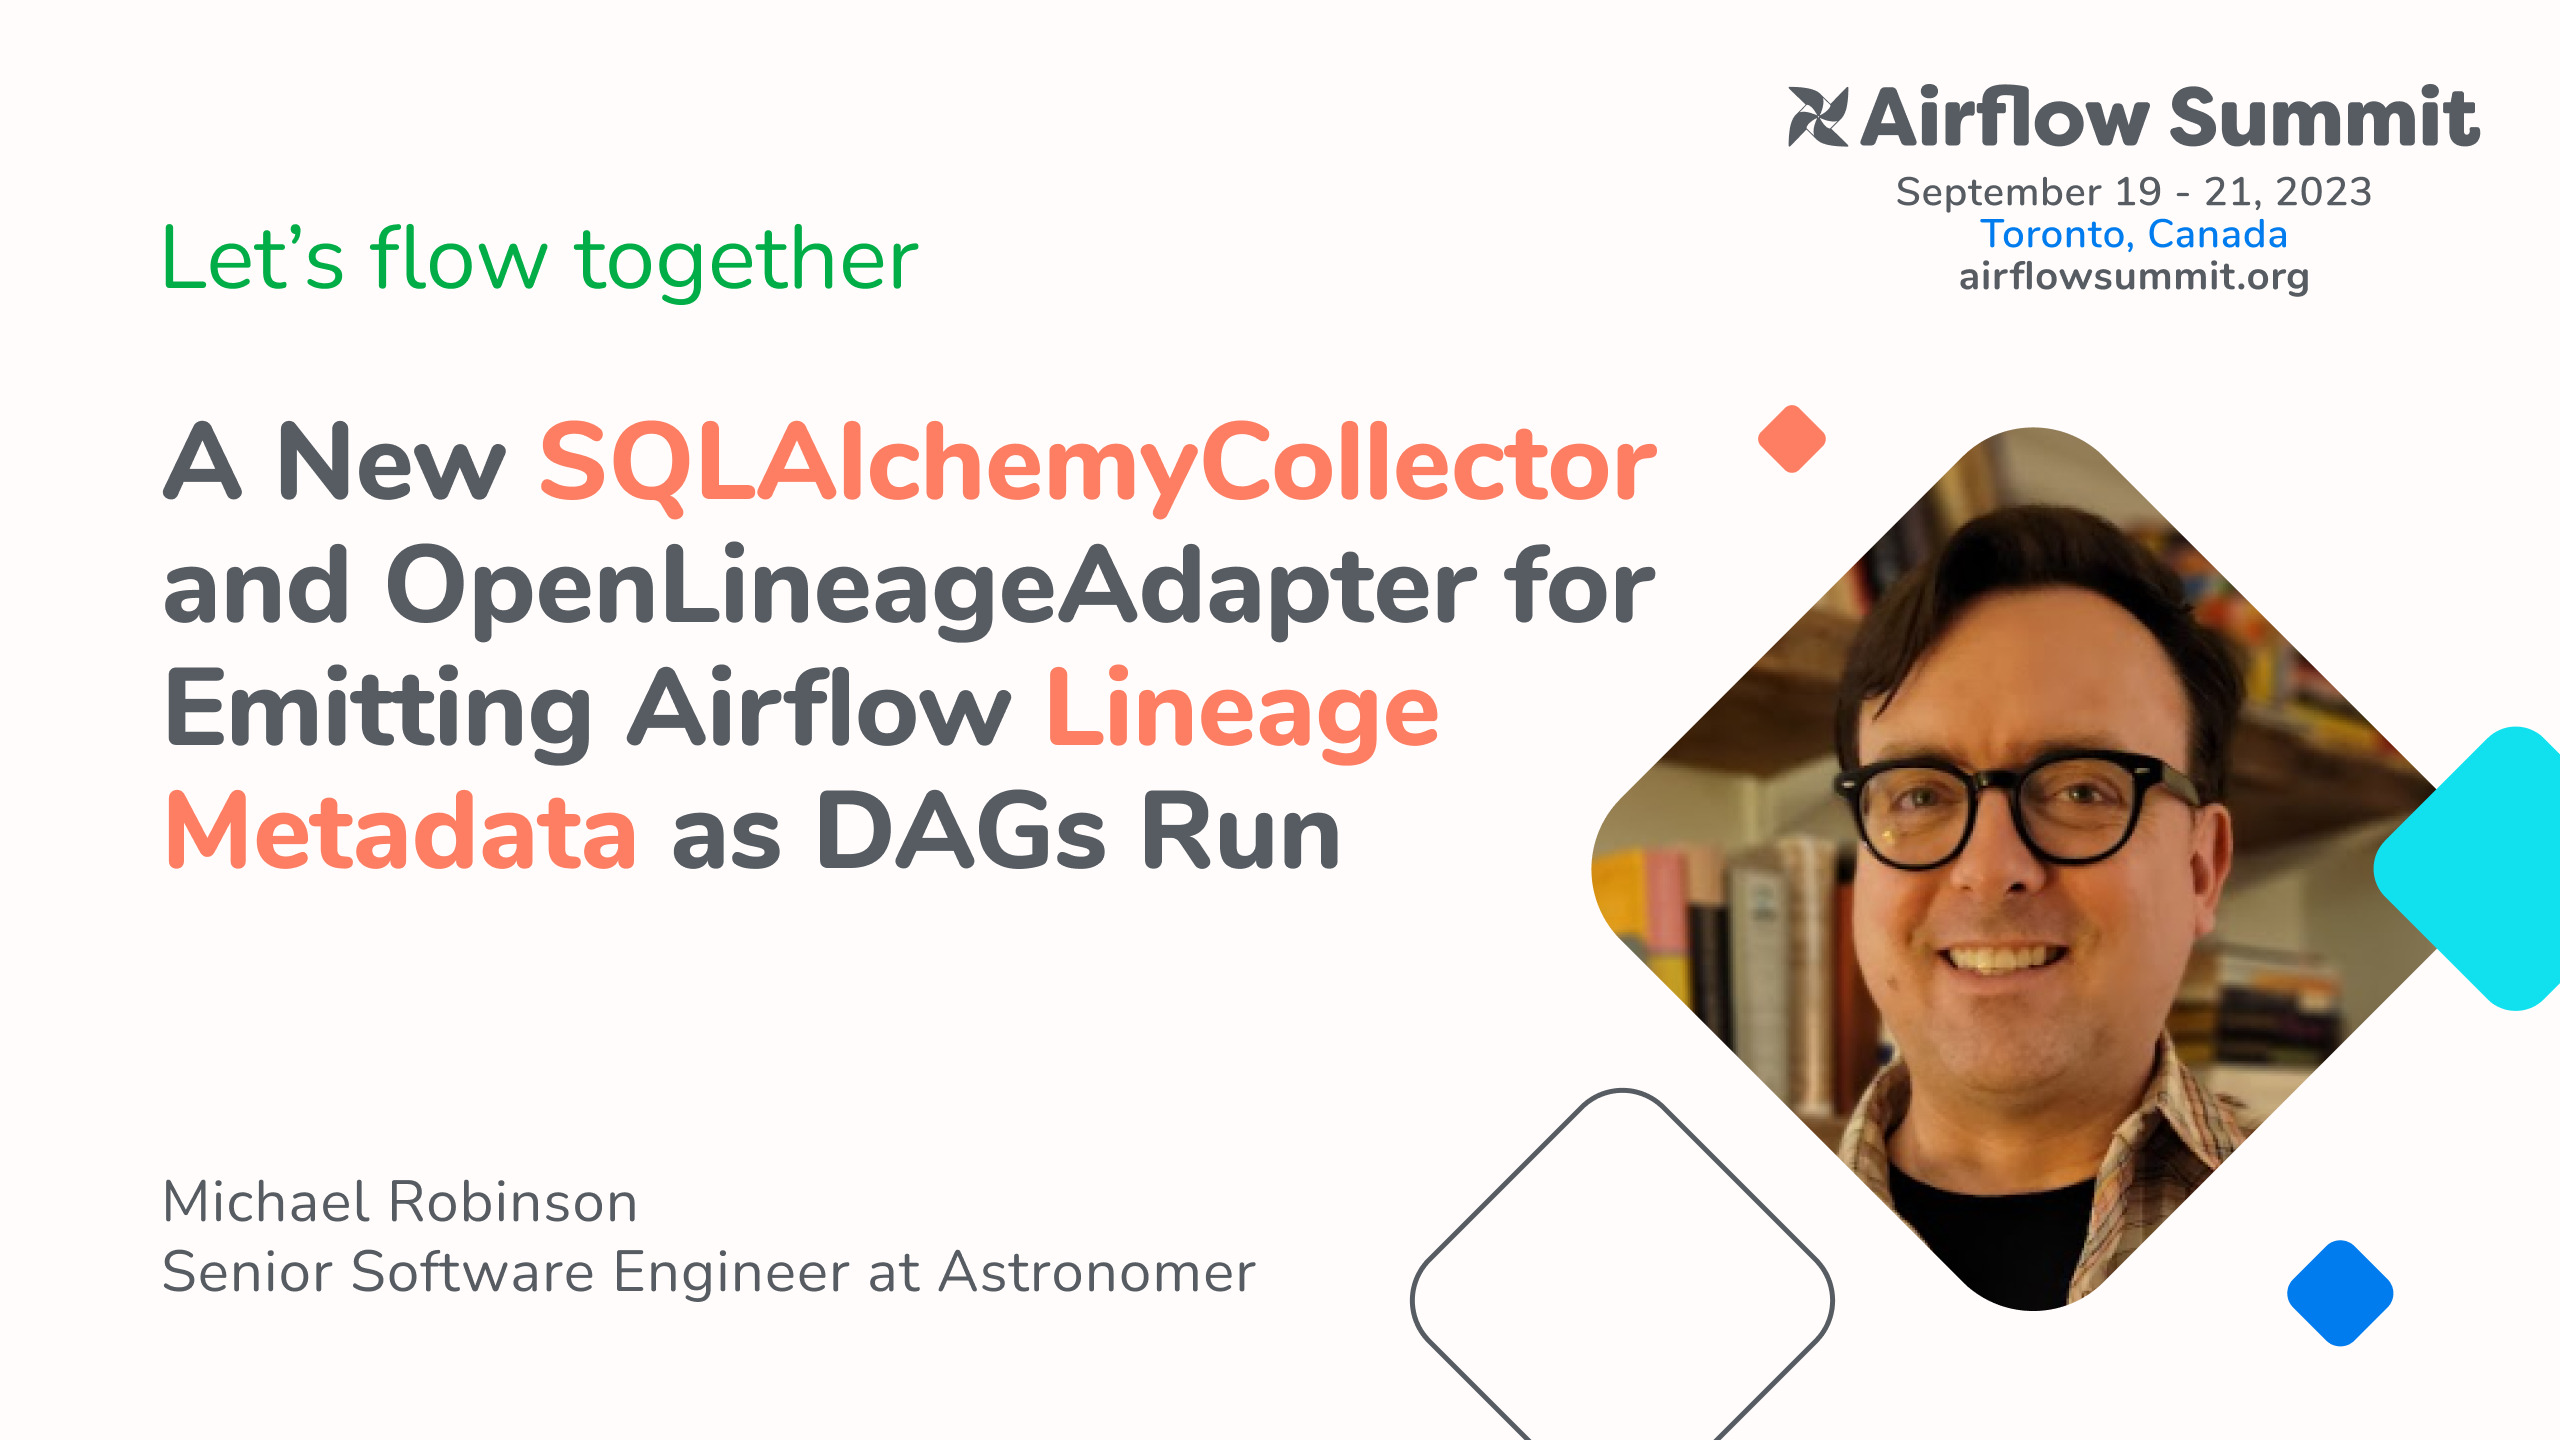
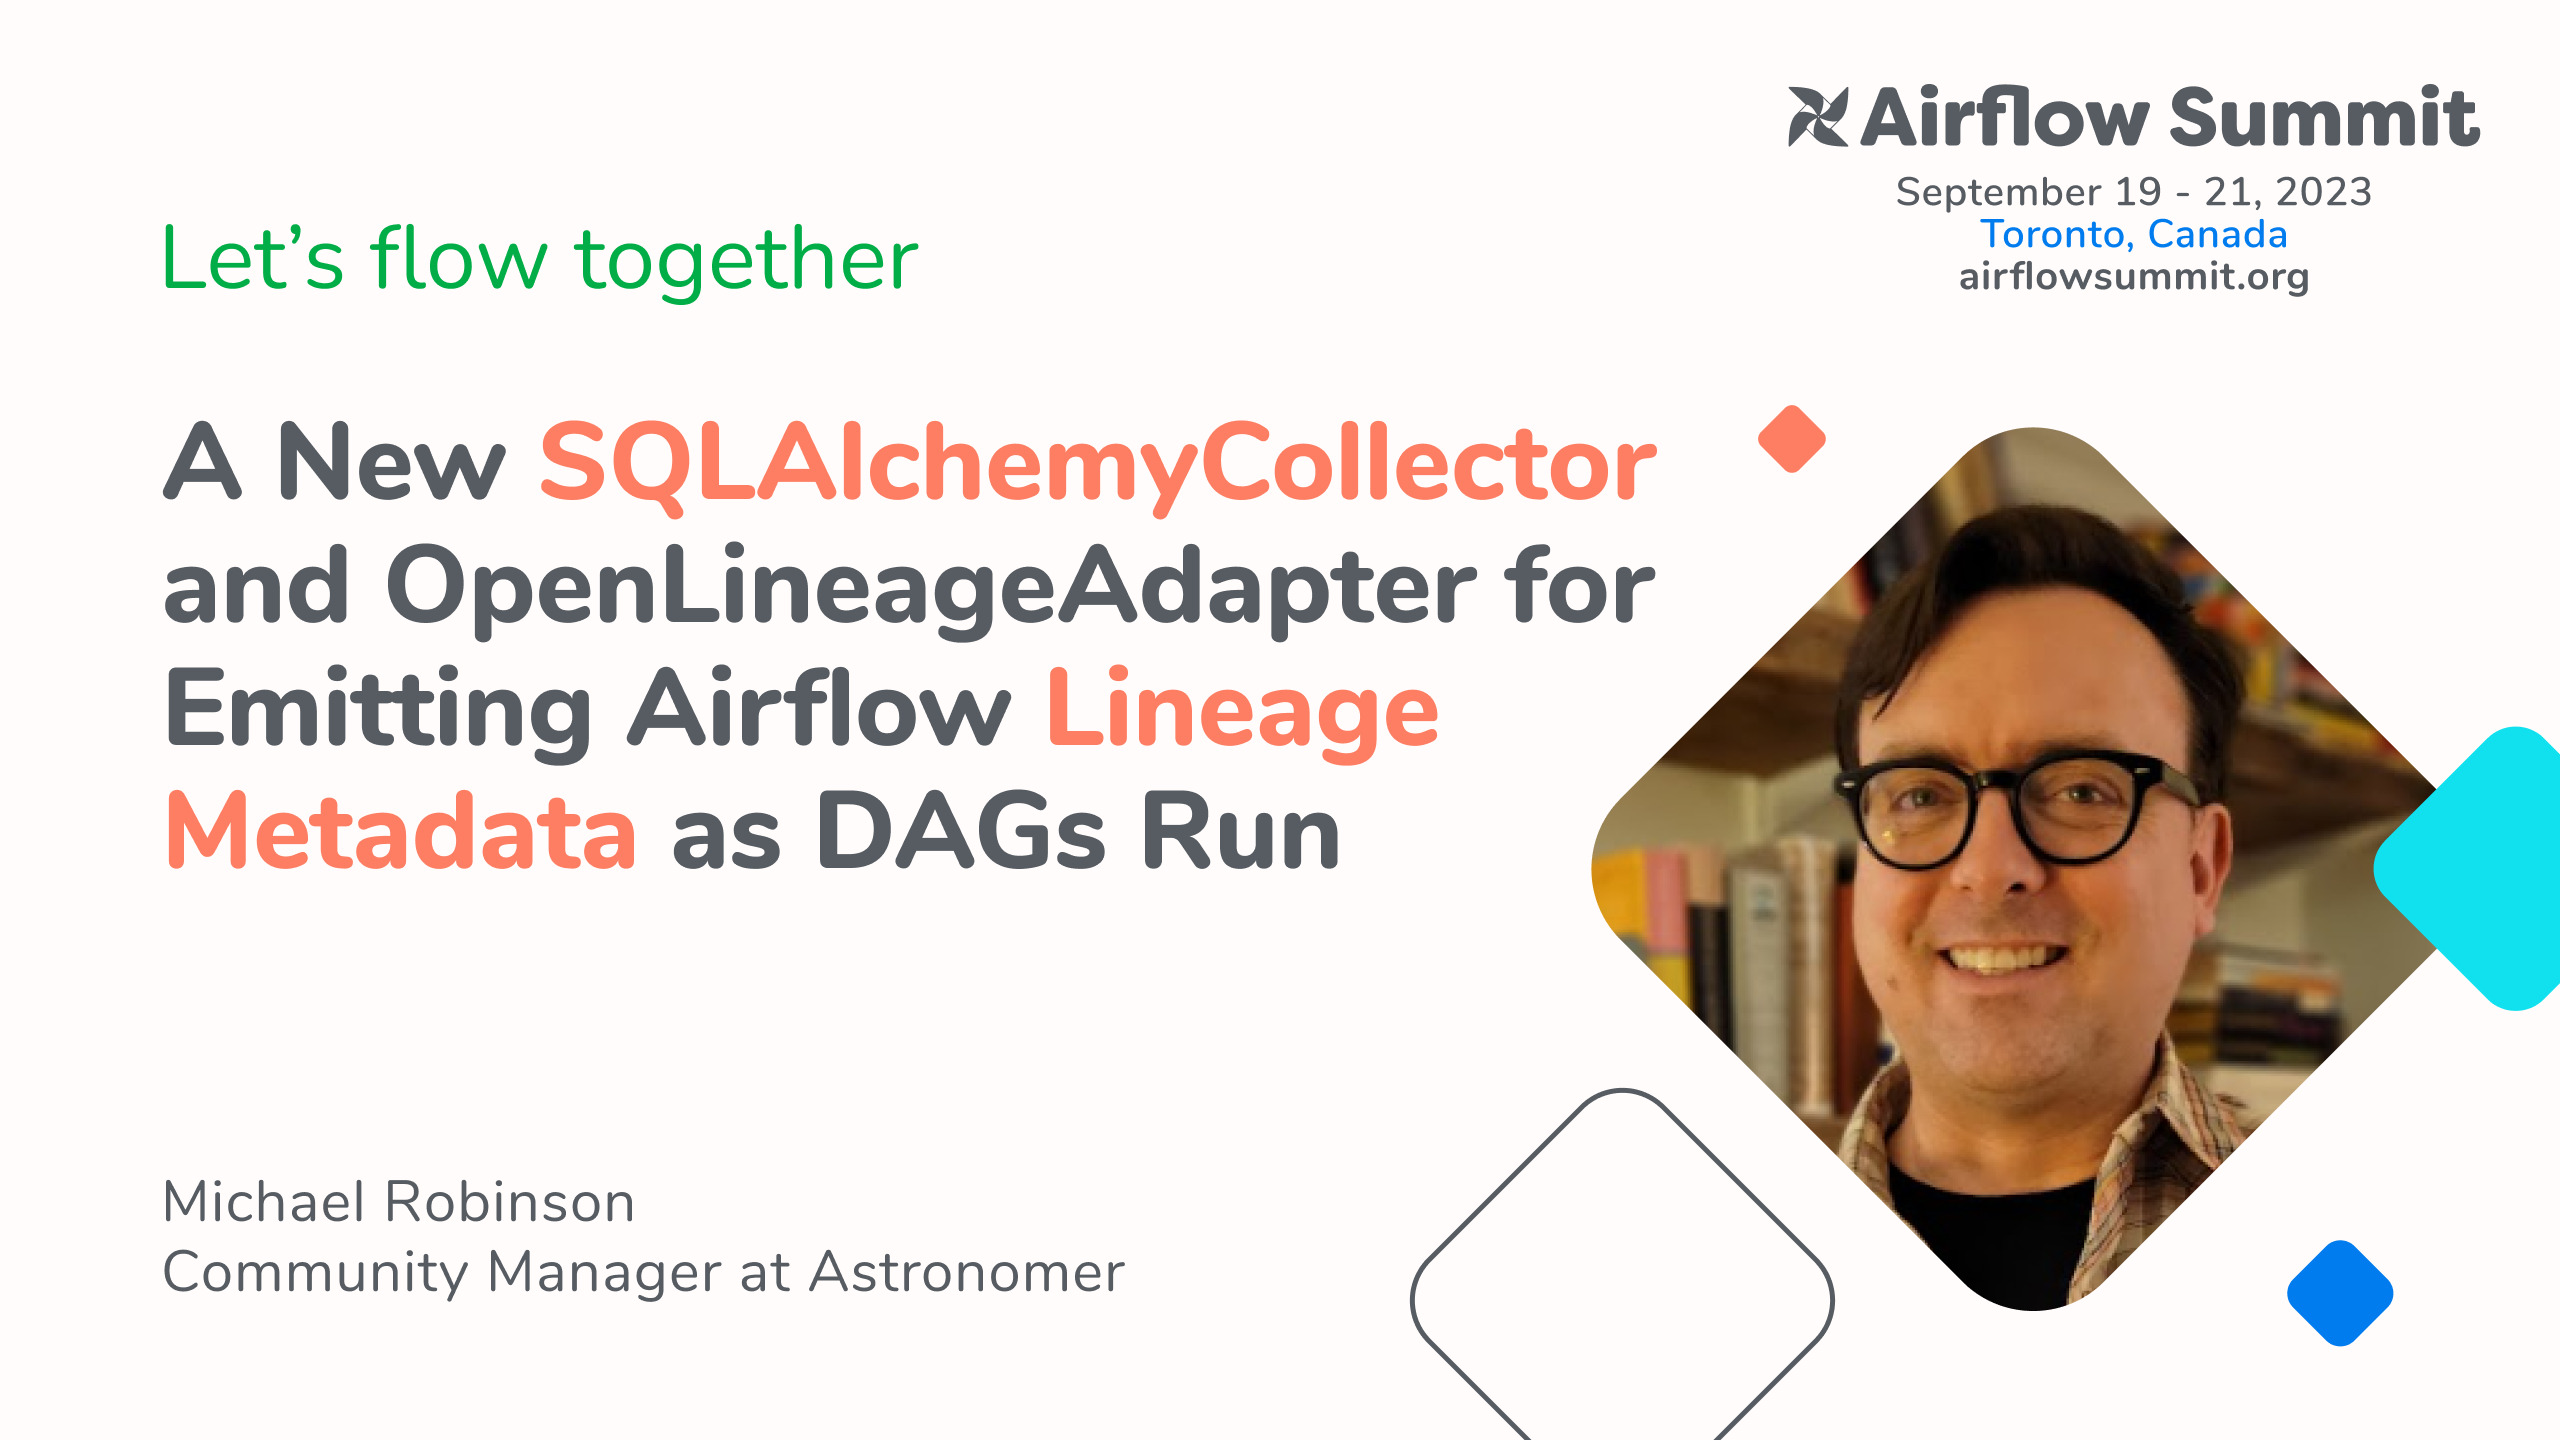
Michael Robinson

Changed region(s): [[0.0625, 0.875, 0.5, 0.9062], [0.125, 0.8125, 0.25, 0.8438], [0.0625, 0.8125, 0.0938, 0.8438]]

diff --git a/content/speakers/michael-robinson/_index.md b/content/speakers/michael-robinson/_index.md
@@ -1,6 +1,6 @@
 ---
 title: "Michael Robinson"
-designation: "Michael Robinson is a Developer Relations Engineer at Astronomer and a contributor to OpenLineage, Marquez and Airflow."
+designation: "Community Manager at Astronomer"
 images:
  - /images/speakers/michael-robinson.jpg
 twitter: https://twitter.com/devrel_michael
